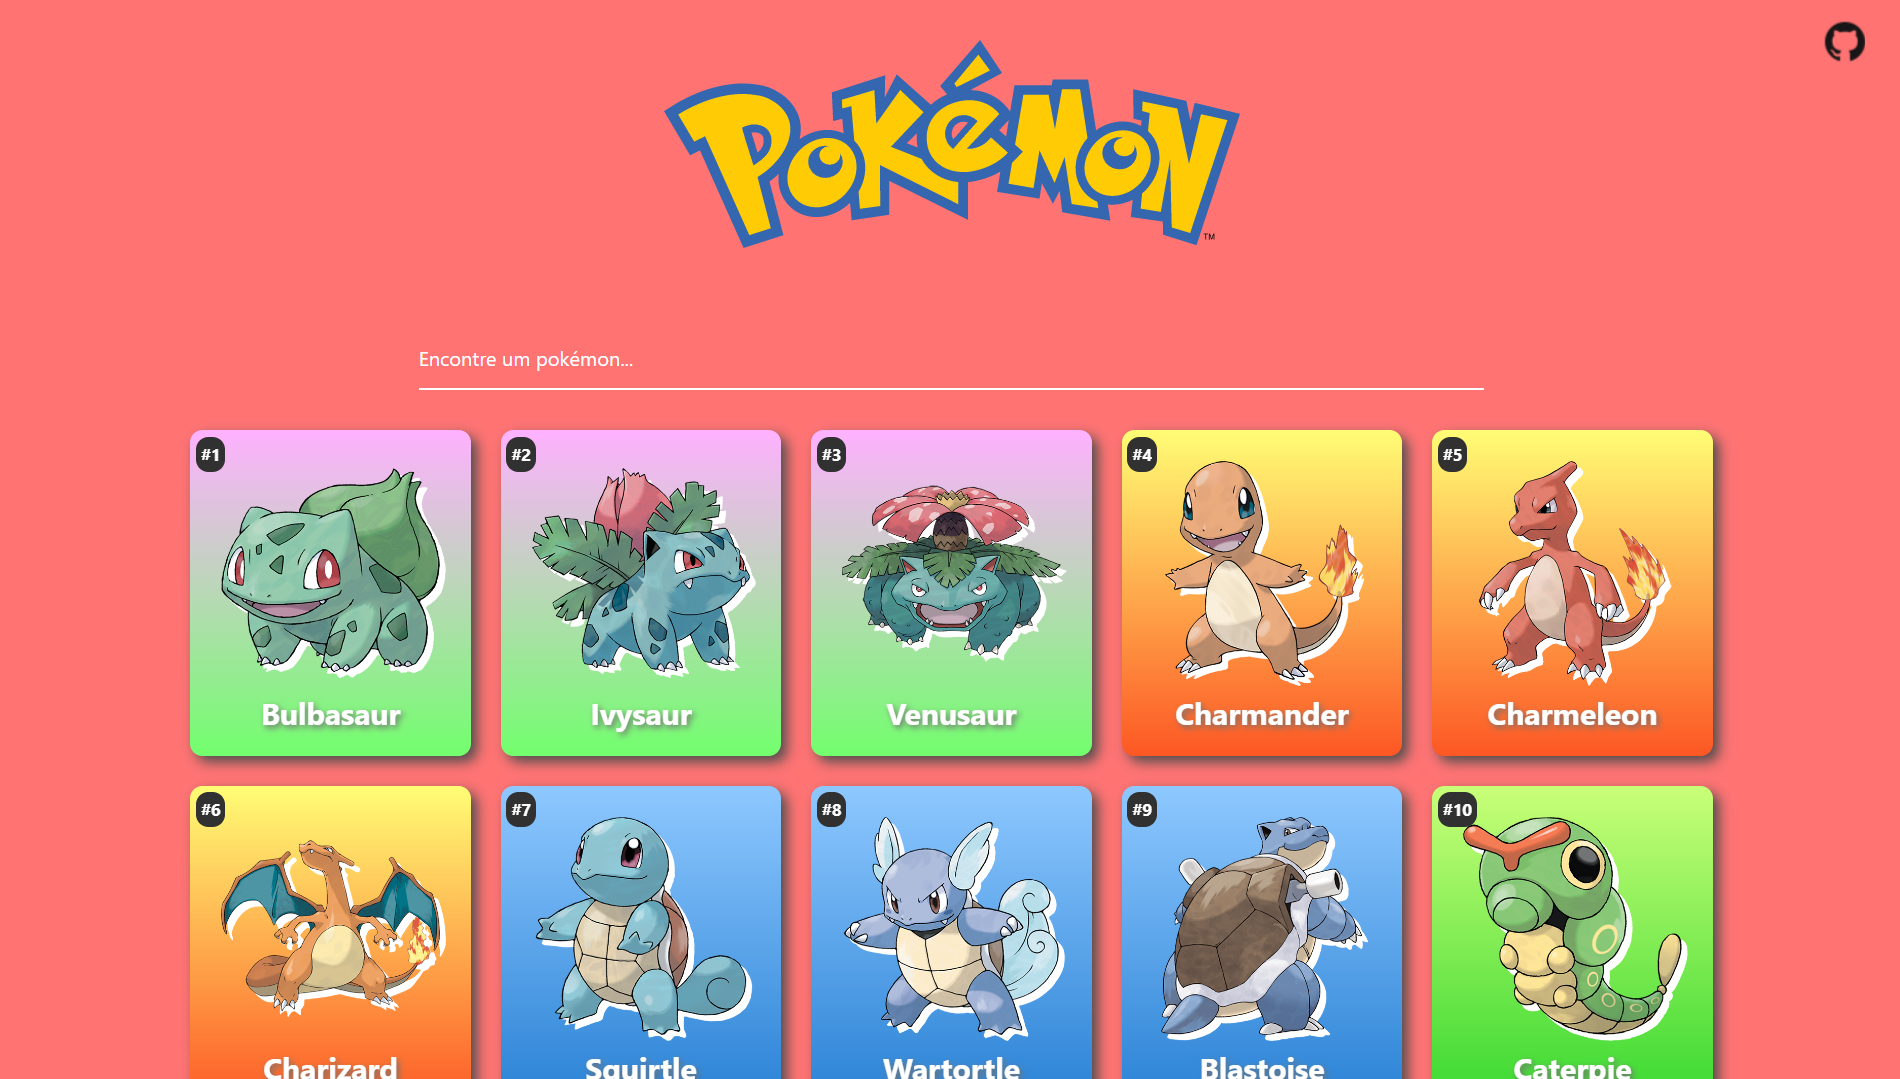
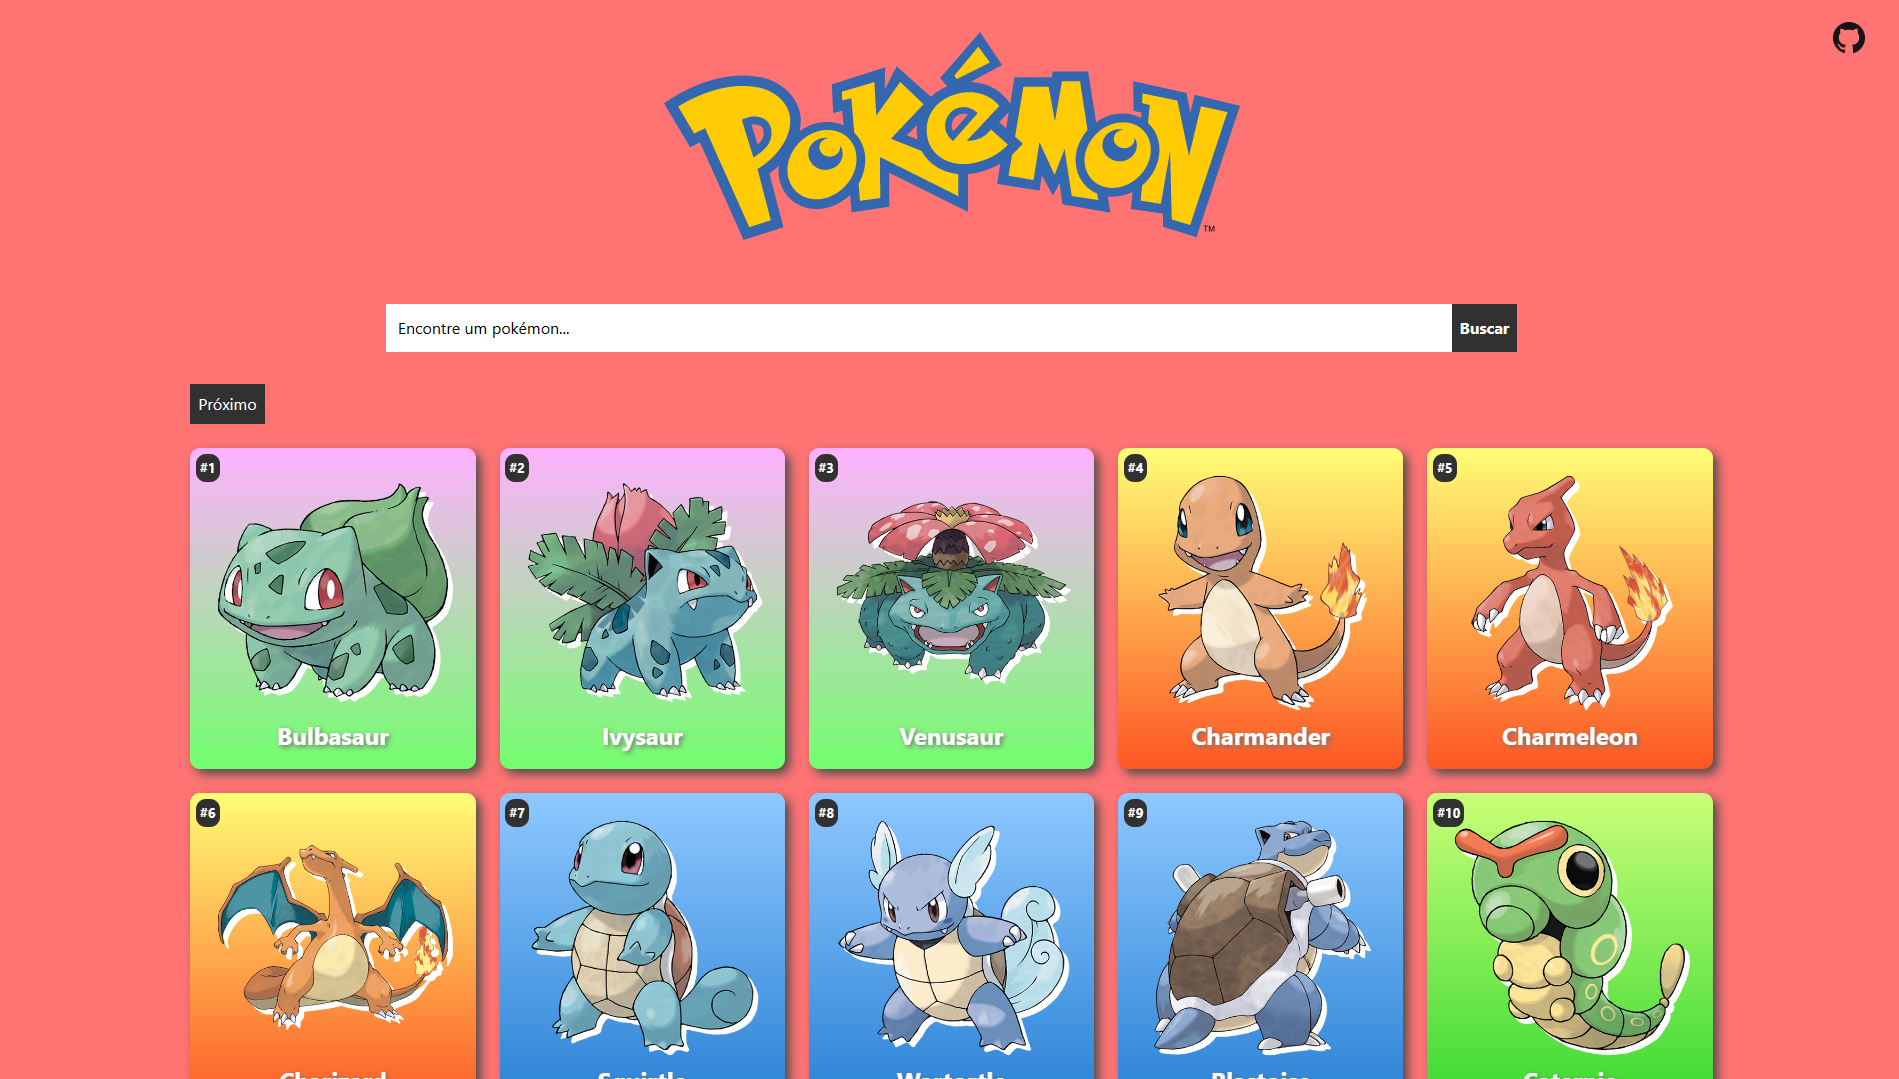
refac: att for readme

diff --git a/README.md b/README.md
@@ -15,11 +15,17 @@ Além do código também foi incluído uma modal exibindo os dados do pokémon, 
 
 <img width="850" src="https://raw.githubusercontent.com/stamorim28/minha-pokedex/master/print_2.png" alt="print"/>
 
-Outra nova ferramenta é o botão de "ver mais" que agora deu a possibilidade do projeto exibir todos os pokémons, tirando o limite de antes que era 151, o botão carrega mais 50 pokémons sempre que clicado.
+Houve uma alteração em relação a paginação, que foi subistituído pelo estilo prev/next com foco na melhoria de desempenho e continua exibindo todos os pokémons.
 
 <img width="850" src="https://raw.githubusercontent.com/stamorim28/minha-pokedex/master/print_3.png" alt="print"/>
 
-Em caso de comparação a branch antiga é a <a href="https://github.com/stamorim28/minha-pokedex/tree/feature/v1.0.0">feature/v1.0.0</a>.
+## Ferramenta de busca por requisição 🔍
+
+Foi implementado uma melhoria na busca por pokémons, anteriormente exibindo apenas os pokémons já carregados, agora se tem a possibilidade de buscas todos os pokémons sem necessidade de carregamento prévio.
+
+<img src="https://raw.githubusercontent.com/stamorim28/minha-pokedex/master/print_4.png" alt="print"/>
+
+Em caso de comparação sobre as modificações feitas a branch antiga é a <a href="https://github.com/stamorim28/minha-pokedex/tree/feature/v1.0.0">feature/v1.0.0</a>.
 
 ## Setup
 ```
@@ -30,3 +36,6 @@ npm install
 ```
 npm run dev
 ```
+
+
+_Este projeto vem sendo um laboratório e a cada conhecimento novo adiquirido ele é atualizado. Mais melhorias em breve._
